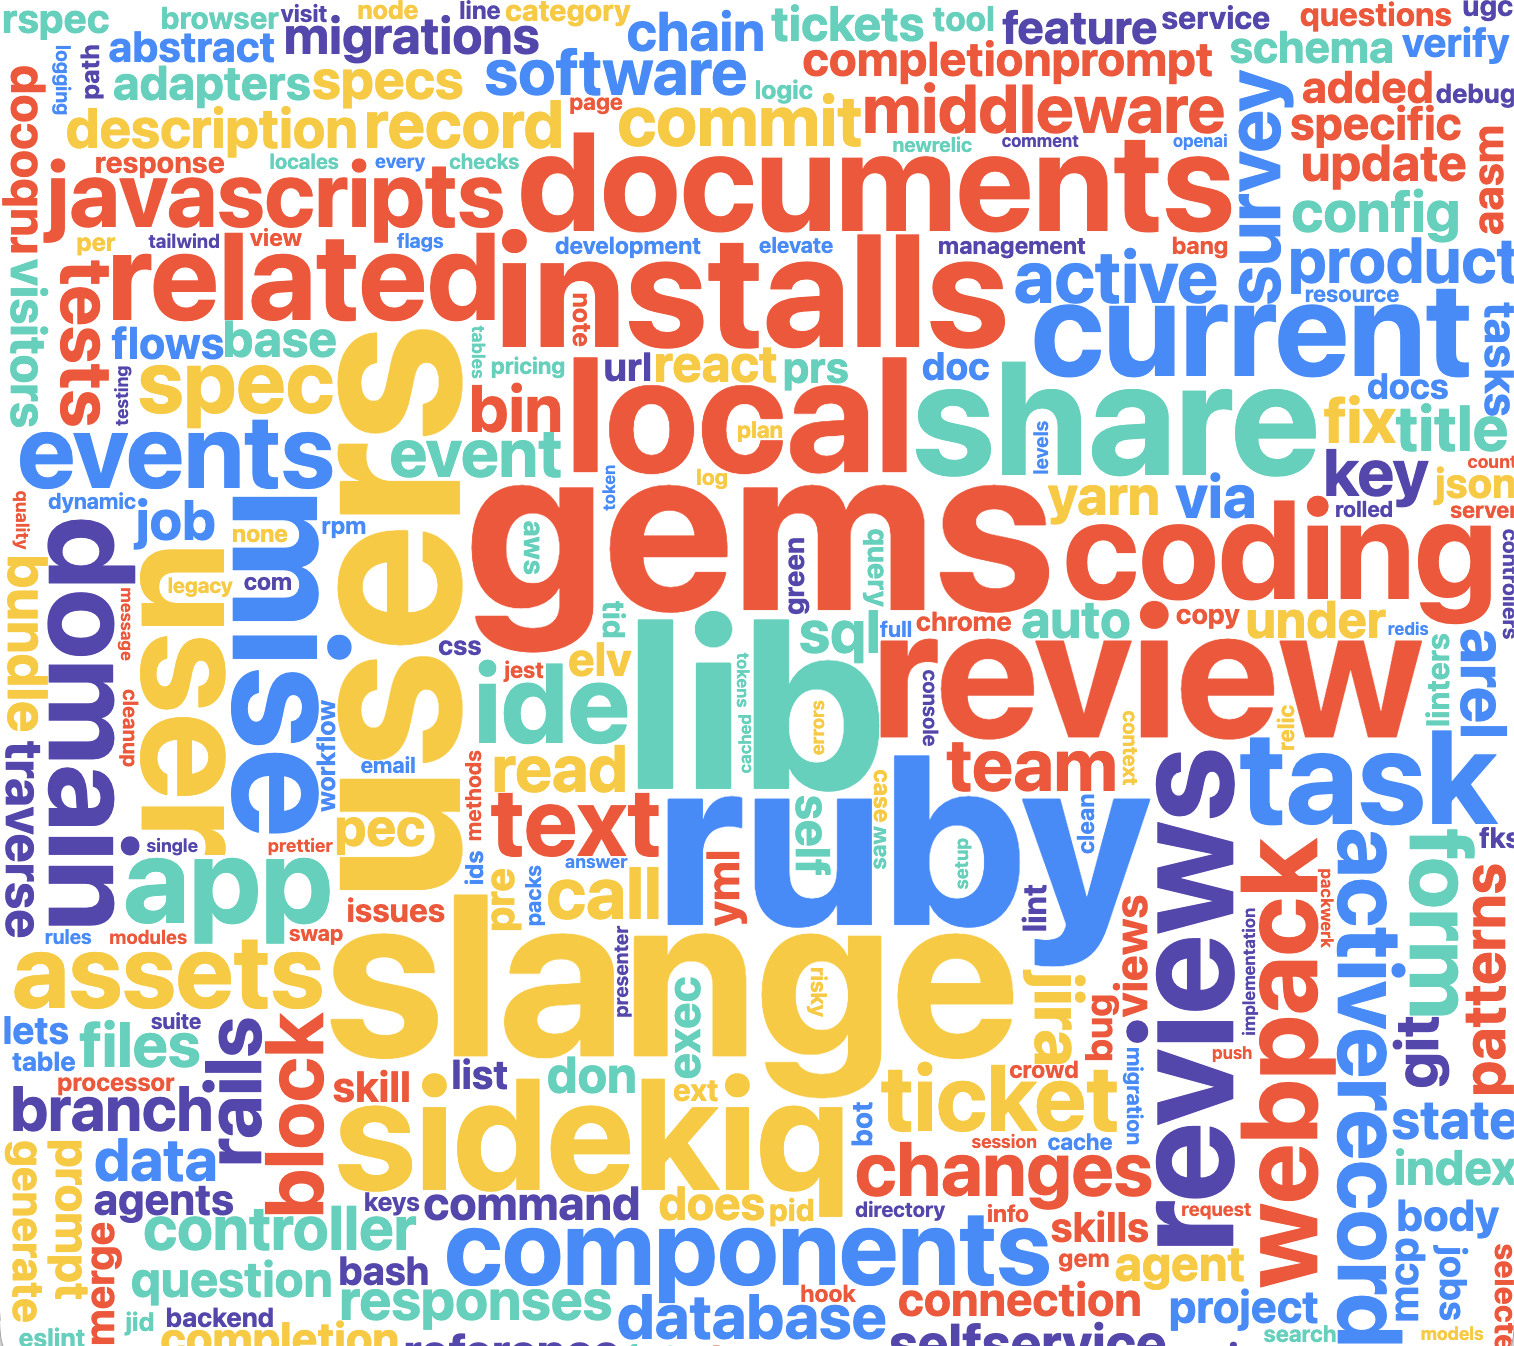
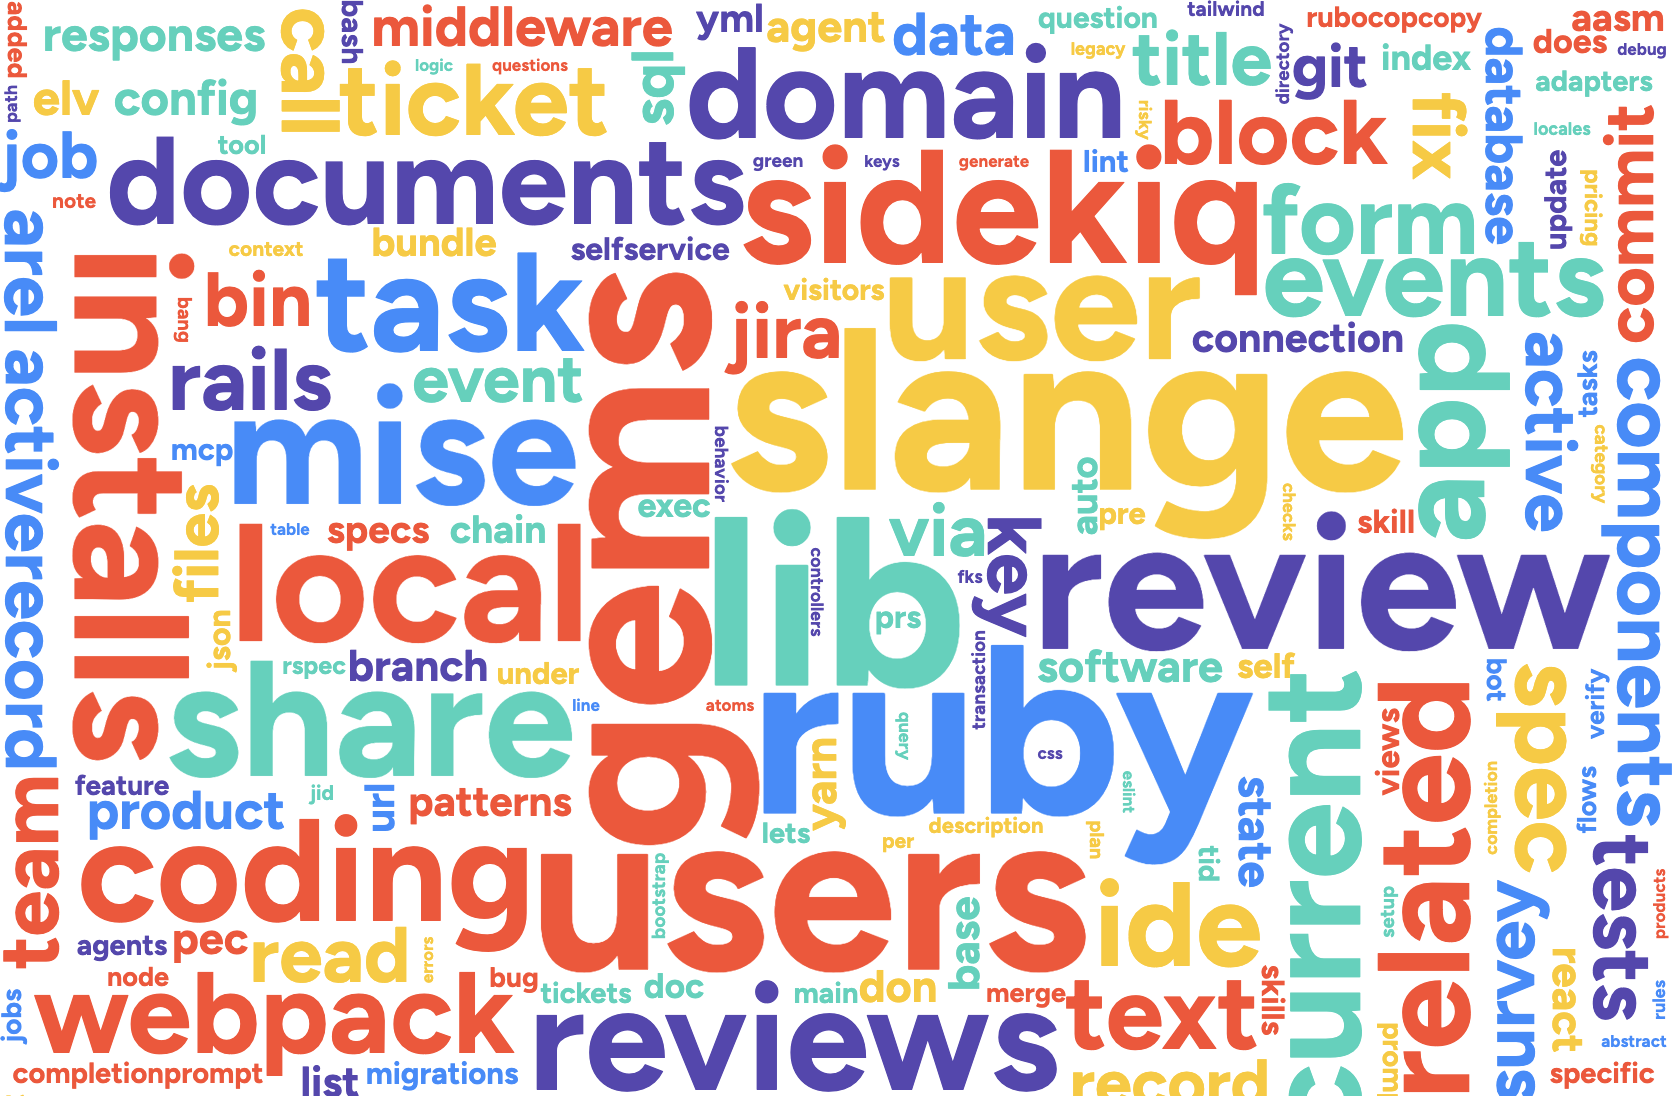
feat: more config

diff --git a/index.html b/index.html
@@ -190,8 +190,9 @@
   <script src="https://cdnjs.cloudflare.com/ajax/libs/wordcloud2.js/1.2.2/wordcloud2.min.js"></script>
 
   <script>
-    // Palette loaded from config.json; this fallback is used if config fails.
+    // Defaults — overwritten by config.json values when loaded.
     let PALETTE = ['#288DFF', '#27D3BC', '#FFC800', '#FF492C', '#5746B2'];
+    let CONFIG  = { max_words: 300, rotation: 0.25, spacing: 8, avoid_adjacent_colors: true };
 
     // ── DOM refs ──────────────────────────────────────────────────
     const canvas        = document.getElementById('wc');
@@ -206,13 +207,10 @@
 
     // ── Helpers ───────────────────────────────────────────────────
 
-    /** Deterministic color per word so rerenders are stable. */
-    function colorForWord(word) {
+    function hashWord(word) {
       let h = 0;
-      for (let i = 0; i < word.length; i++) {
-        h = Math.imul(31, h) + word.charCodeAt(i) | 0;
-      }
-      return PALETTE[Math.abs(h) % PALETTE.length];
+      for (let i = 0; i < word.length; i++) h = Math.imul(31, h) + word.charCodeAt(i) | 0;
+      return Math.abs(h);
     }
 
     function showLoading() {
@@ -279,6 +277,17 @@
         return Math.round(minPx + t * (maxPx - minPx));
       }
 
+      // Per-render adjacent-color tracker (reset each time cloud is drawn).
+      let lastColorIdx = -1;
+      function colorForWord(word) {
+        let idx = hashWord(word) % PALETTE.length;
+        if (CONFIG.avoid_adjacent_colors && idx === lastColorIdx && PALETTE.length > 1) {
+          idx = (idx + 1) % PALETTE.length;
+        }
+        lastColorIdx = idx;
+        return PALETTE[idx];
+      }
+
       // Clear any previous render
       const ctx = canvas.getContext('2d');
       ctx.clearRect(0, 0, canvas.width, canvas.height);
@@ -288,15 +297,16 @@
         weightFactor:    weight,
         fontFamily:      getComputedStyle(document.documentElement).getPropertyValue('--font').trim(),
         fontWeight:      '700',
-        color:           (word) => colorForWord(word),
-        rotateRatio:     0.25,          // 25 % of words rotate 90°
-        rotationSteps:   2,             // only 0° and 90°
+        color:           colorForWord,
+        rotateRatio:     CONFIG.rotation ?? 0.25,
+        rotationSteps:   2,
+        gridSize:        Math.round((CONFIG.spacing ?? 8) * dpr),
         backgroundColor: 'transparent',
         drawOutOfBound:  false,
         shrinkToFit:     true,
         shuffle:         true,
-        wait:            10,            // ms between words (lets browser breathe)
-        minSize:         8 * dpr,       // skip words that would render too tiny
+        wait:            10,
+        minSize:         8 * dpr,
       });
     }
 
@@ -346,6 +356,7 @@
         if (Array.isArray(config.palette) && config.palette.length > 0) {
           PALETTE = config.palette;
         }
+        CONFIG = { ...CONFIG, ...config };
       });
 
       // Render once both config and words are ready.
@@ -355,7 +366,7 @@
             throw Object.assign(new Error('empty'), { isEmpty: true });
           }
 
-          _words = words.slice(0, 300);
+          _words = words.slice(0, CONFIG.max_words ?? 300);
           loadingOvl.classList.remove('visible');
           updateStats(words);
           renderCloud(_words);

diff --git a/generate.py b/generate.py
@@ -19,6 +19,9 @@ def load_config() -> dict:
         "history_path": "~/.claude/projects",
         "palette": ["#288DFF", "#27D3BC", "#FFC800", "#FF492C", "#5746B2"],
         "excluded_words": [],
+        "max_words": 300,
+        "min_frequency": 2,
+        "min_word_length": 3,
     }
     if not config_path.exists():
         return defaults
@@ -186,6 +189,9 @@ def main() -> None:
     config = load_config()
     projects_dir = Path(config["history_path"]).expanduser()
     extra_excluded = set(w.lower() for w in config.get("excluded_words", []))
+    min_freq = int(config["min_frequency"])
+    min_len = int(config["min_word_length"])
+    max_words = int(config["max_words"])
     jsonl_files = sorted(projects_dir.glob("**/*.jsonl"))
 
     if not jsonl_files:
@@ -234,7 +240,7 @@ def main() -> None:
 
                         words = clean_text(text)
                         for w in words:
-                            if w not in STOP_WORDS and w not in extra_excluded:
+                            if len(w) >= min_len and w not in STOP_WORDS and w not in extra_excluded:
                                 counter[w] += 1
 
                     messages_processed += 1
@@ -243,30 +249,29 @@ def main() -> None:
             print(f"Warning: could not read {jsonl_path}: {exc}", file=sys.stderr)
 
     # Apply minimum frequency filter
-    filtered = {w: c for w, c in counter.items() if c >= 2}
+    filtered = {w: c for w, c in counter.items() if c >= min_freq}
 
     # Sort by frequency descending, then alphabetically for ties
     sorted_words = sorted(filtered.items(), key=lambda x: (-x[1], x[0]))
 
-    # Top 300
-    top_300 = sorted_words[:300]
+    top = sorted_words[:max_words]
 
     # Write words.json
     output_path = Path(__file__).parent / "words.json"
     with open(output_path, "w", encoding="utf-8") as fh:
-        json.dump(top_300, fh, ensure_ascii=False, indent=2)
+        json.dump(top, fh, ensure_ascii=False, indent=2)
 
     # Stats
     unique_words = len(filtered)
     print(f"Files scanned:       {len(jsonl_files)}")
     print(f"Messages processed:  {messages_processed}")
     print(f"Parse errors:        {parse_errors}")
-    print(f"Unique words (freq≥2): {unique_words}")
-    print(f"Words written:       {len(top_300)}")
+    print(f"Unique words (freq≥{min_freq}): {unique_words}")
+    print(f"Words written:       {len(top)}")
     print(f"Output:              {output_path}")
     print()
     print("Top 20 words:")
-    for word, count in top_300[:20]:
+    for word, count in top[:20]:
         print(f"  {count:>6}  {word}")
 
 